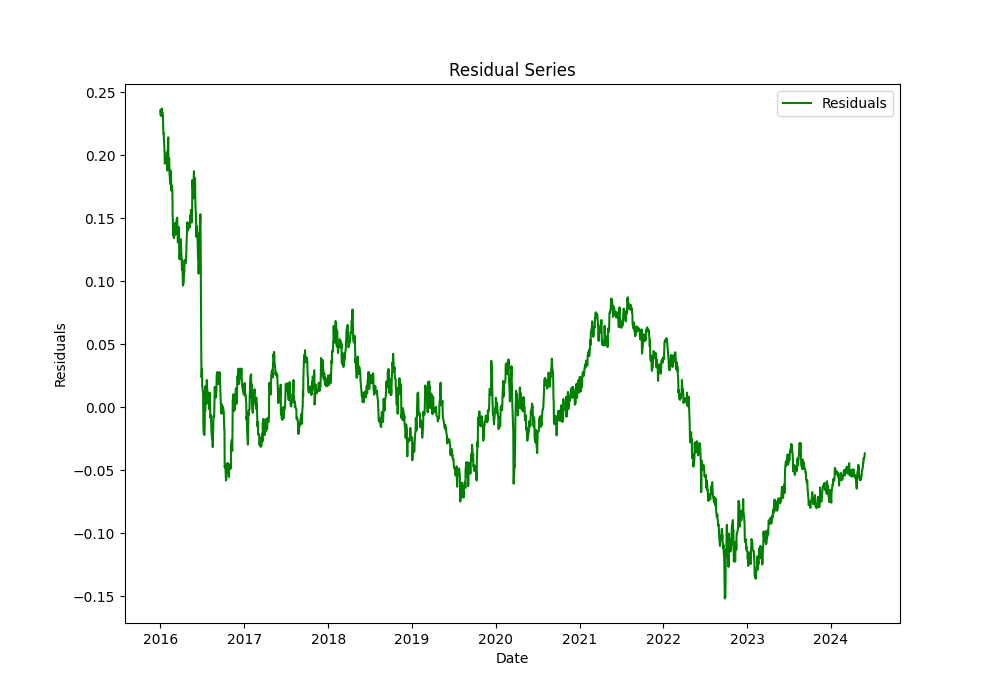
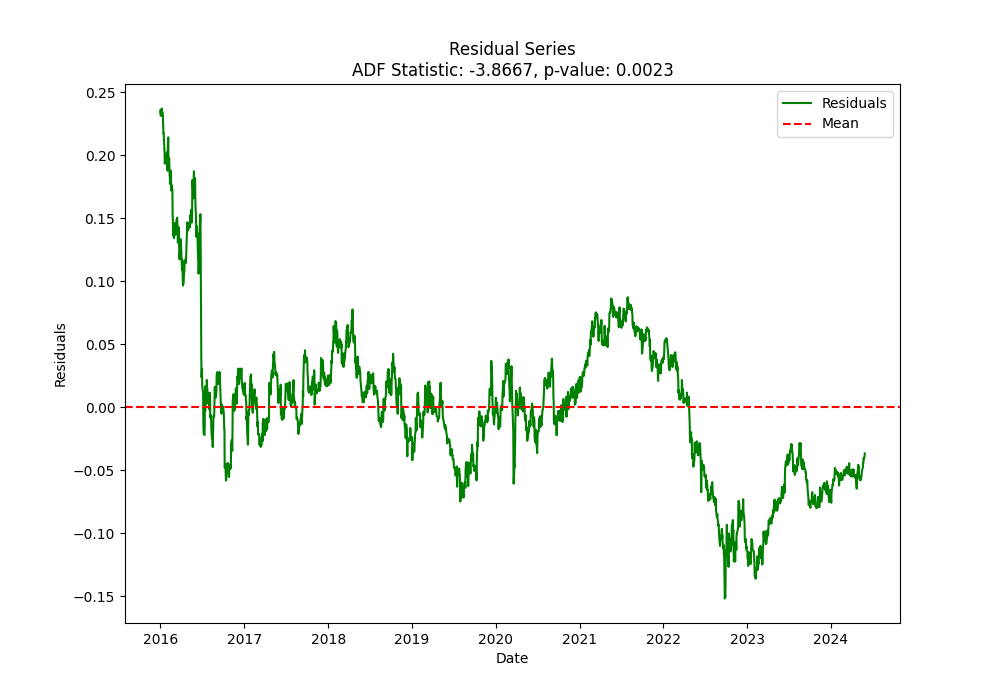
finished trading strat + pnl explanation

Changed region(s): [[0.341, 0.06, 0.682, 0.12], [0.775, 0.15, 0.868, 0.18]]

diff --git a/AUD NZD EDA/11_fx_trading_testing_period.py b/AUD NZD EDA/11_fx_trading_testing_period.py
@@ -1,0 +1,128 @@
+import yfinance as yf
+import pandas as pd
+import numpy as np
+import matplotlib.pyplot as plt
+import statsmodels.api as sm
+
+def generate_signal(Z_score, threshold_long, threshold_short):
+    signal = pd.Series(index=Z_score.index, dtype=int)
+    signal.iloc[0] = 0
+    
+    for t in range(1, len(Z_score)):
+        if signal.iloc[t-1] == 0:
+            if Z_score.iloc[t] <= threshold_long.iloc[t]:
+                signal.iloc[t] = 1
+            elif Z_score.iloc[t] >= threshold_short.iloc[t]:
+                signal.iloc[t] = -1
+            else:
+                signal.iloc[t] = 0
+        elif signal.iloc[t-1] == 1:
+            if Z_score.iloc[t] >= 0:
+                signal.iloc[t] = 0
+            else:
+                signal.iloc[t] = signal.iloc[t-1]
+        else:
+            if Z_score.iloc[t] <= 0:
+                signal.iloc[t] = 0
+            else:
+                signal.iloc[t] = signal.iloc[t-1]
+    
+    return signal
+
+def analyze_spread_LS(data, benchmark_data, pct_training=0.7, threshold=0.7):
+    T = len(data)
+    T_trn = round(pct_training * T)
+    
+    sgdusd = data['SGDUSD']
+    gbpusd = data['GBPUSD']
+    
+    spread = sgdusd - gbpusd
+    spread_mean = spread.iloc[:T_trn].mean()
+    spread_std = spread.iloc[:T_trn].std()
+    
+    Z_score = (spread.iloc[T_trn:] - spread_mean) / spread_std
+    Z_score_full = pd.Series(index=data.index, dtype=float)
+    Z_score_full.iloc[:T_trn] = np.nan
+    Z_score_full.iloc[T_trn:] = Z_score
+    
+    threshold_long = pd.Series(threshold, index=Z_score_full.index)
+    threshold_short = -threshold_long
+    
+    signal = generate_signal(Z_score_full, threshold_long, threshold_short)
+    
+    portf_return = spread.diff() * signal.shift(1)
+    
+    # Filter to testing period
+    portf_return_testing = portf_return.iloc[T_trn:]
+    benchmark_return_testing = benchmark_data.pct_change().iloc[T_trn:]
+    
+    # Align the data to handle missing values and ensure same lengths
+    portf_return_testing, benchmark_return_testing = portf_return_testing.align(benchmark_return_testing, join='inner')
+    
+    # Calculate Sharpe ratio
+    mean_return = portf_return_testing.mean()
+    std_return = portf_return_testing.std()
+    sharpe_ratio = mean_return / std_return * np.sqrt(252)  # Annualized Sharpe ratio assuming daily returns
+    
+    # Calculate Alpha and Beta
+    excess_return_testing = portf_return_testing - benchmark_return_testing
+    X = sm.add_constant(benchmark_return_testing)
+    model = sm.OLS(portf_return_testing, X, missing='drop').fit()
+    alpha = model.params[0]
+    beta = model.params[1]
+    
+    # Calculate Value at Risk (VaR)
+    var_95 = np.percentile(portf_return_testing.dropna(), 5)
+    
+    fig, axes = plt.subplots(1, 1, figsize=(12, 6))
+    
+    # Plot cumulative P&L for testing period
+    axes.plot((1 + portf_return_testing).cumprod(), label='Cumulative Return')
+    axes.axvline(x=portf_return_testing.index[0], color='blue', linestyle='--')  # Mark the start of the testing period
+    axes.set_title('Cumulative P&L (Multiples of Notional) - Testing Period')
+    axes.set_ylabel('Cumulative Return')
+    axes.legend()
+
+    # Set x-axis limits to start from the first data point of portf_return_testing
+    axes.set_xlim(portf_return_testing.index[0], portf_return_testing.index[-1])
+
+    # Display performance metrics
+    sharpe_text = f'Sharpe Ratio: {sharpe_ratio:.2f}'
+    alpha_text = f'Alpha: {alpha:.5f}'
+    beta_text = f'Beta: {beta:.2f}'
+    var_text = f'VaR (95%): {var_95:.2f}'
+    metrics_text = f'{sharpe_text}\n{alpha_text}\n{beta_text}\n{var_text}'
+
+    # Calculate the position for the text
+    max_return = (1 + portf_return_testing).cumprod().max()
+    text_x = portf_return_testing.index[-1] - pd.Timedelta(days=30)  # Adjusting x position for padding
+    text_y = (1 + portf_return_testing).cumprod().min()  # Adjusting y position for padding
+
+    # Display the performance metrics text
+    axes.text(text_x, text_y, metrics_text, fontsize=12, color='black', verticalalignment='bottom', horizontalalignment='right')
+
+    # Add a dotted line for y=0
+    axes.axhline(y=1, color='grey', linestyle='--', linewidth=1)
+
+    plt.tight_layout()
+    plt.savefig('X11_trade_performance_testing_period.png')
+    plt.show()
+
+
+# Fetching data from Yahoo Finance
+sgdusd_data = yf.download('SGDUSD=X', start='2016-01-01', end='2024-05-29')
+gbpusd_data = yf.download('GBPUSD=X', start='2016-01-01', end='2024-05-29')
+sp500_data = yf.download('^GSPC', start='2016-01-01', end='2024-05-29')  # Using S&P 500 as benchmark
+
+# Extract the adjusted close price
+sgdusd_close = sgdusd_data['Adj Close']
+gbpusd_close = gbpusd_data['Adj Close']
+sp500_close = sp500_data['Adj Close']
+
+# Combine into a DataFrame
+data = pd.concat([sgdusd_close, gbpusd_close], axis=1)
+data.columns = ['SGDUSD', 'GBPUSD']
+
+# Run the spread analysis
+analyze_spread_LS(data, sp500_close)
+

diff --git a/AUD NZD EDA/13_ADF_time_series.py b/AUD NZD EDA/13_ADF_time_series.py
@@ -1,0 +1,80 @@
+import yfinance as yf
+import pandas as pd
+import numpy as np
+from statsmodels.tsa.stattools import adfuller
+from sklearn.linear_model import LinearRegression
+import matplotlib.pyplot as plt
+
+# Fetching data from Yahoo Finance
+sgdusd_data = yf.download('SGDUSD=X', start='2016-01-01', end='2024-05-29')
+gbpusd_data = yf.download('GBPUSD=X', start='2016-01-01', end='2024-05-29')
+
+# Extract the adjusted close price
+sgdusd_close = sgdusd_data['Adj Close']
+gbpusd_close = gbpusd_data['Adj Close']
+
+# Define window sizes
+window_sizes = [12 * i for i in range(1, 8)]
+
+# Start ADF test after accumulating 12 months of data
+start_date = '2017-01-01'
+
+for window_size in window_sizes:
+    # Step 1: Fit a linear model
+    residuals = gbpusd_close - sgdusd_close
+
+    # Calculate rolling ADF statistic and p-value starting from the specified date
+    rolling_adf_stat = residuals.loc[start_date:].rolling(window=window_size).apply(lambda x: adfuller(x)[0])
+
+    # Drop NaN values from rolling statistics
+    rolling_adf_stat = rolling_adf_stat.dropna()
+
+    # Creating time variable for regression
+    time = np.arange(len(rolling_adf_stat)).reshape(-1, 1)
+
+    # Linear regression for ADF Statistic
+    reg_adf = LinearRegression().fit(time, rolling_adf_stat)
+    adf_trend = reg_adf.predict(time)
+
+    # Calculate gradient of ADF Statistic Trend Line
+    gradient = (adf_trend[-1] - adf_trend[0]) / len(adf_trend)
+
+    # Plotting
+    fig, ax1 = plt.subplots(figsize=(10, 7))
+    plt.subplots_adjust(top=0.9)  # Adjust top padding
+    plt.subplots_adjust(bottom=0.3)  # Adjust bottom padding
+
+    color = 'tab:blue'
+    ax1.set_xlabel('Date')
+    ax1.set_ylabel('ADF Statistic', color=color)
+    ax1.plot(rolling_adf_stat.index, rolling_adf_stat, label=f'Rolling ADF Statistic ({window_size} Months)', color=color)
+    ax1.plot(rolling_adf_stat.index, adf_trend, linestyle='--', color='green', linewidth=2, label='ADF Stat Trend')
+    ax1.tick_params(axis='y', labelcolor=color)
+
+    # Adding annotations for ADF Statistic Trend Line Gradient
+    start_adf = adf_trend[0]
+    end_adf = adf_trend[-1]
+
+    # Calculate middle x-coordinate of the plot's x-axis range
+    middle_x = ax1.get_xlim()[0] + 0.5 * (ax1.get_xlim()[1] - ax1.get_xlim()[0])
+
+    # Calculate fixed y-coordinate for text annotations
+    y_coord = min(rolling_adf_stat.min(), start_adf) - 6
+
+    # Get the bottom of the plot area
+    bottom = ax1.get_ylim()[0]
+
+    # Calculate the new y-coordinate for text annotations
+    y_coord = bottom - 0.05 * (ax1.get_ylim()[1] - ax1.get_ylim()[0])  # Adjust 0.05 based on your preference
+
+    # Text annotations with adjusted y-coordinate
+    ax1.text(middle_x, ax1.get_ylim()[0] * 1.4, f'Trend Line Starting ADF: {start_adf:.2f}', verticalalignment='top', horizontalalignment='center')
+    ax1.text(middle_x, ax1.get_ylim()[0] * 1.5, f'Trend Line Final ADF: {end_adf:.2f}', verticalalignment='top', horizontalalignment='center')
+    ax1.text(middle_x, ax1.get_ylim()[0] * 1.6, f'ADF Statistic Trend Line Gradient: {gradient:.6f}', verticalalignment='top', horizontalalignment='center', color='purple')
+
+    plt.title(f'Rolling ADF Statistic with Trend Lines (Window Size: {window_size} Months)')
+    plt.savefig(f'X13_Rolling_ADF_{window_size}_Months.png')
+    # plt.show()
+
+
+

diff --git a/AUD NZD EDA/12_residuals_ADF_trainvtest.py b/AUD NZD EDA/12_residuals_ADF_trainvtest.py
@@ -1,0 +1,59 @@
+import yfinance as yf
+import pandas as pd
+import numpy as np
+from statsmodels.tsa.stattools import adfuller
+from statsmodels.regression.linear_model import OLS
+import statsmodels.api as sm
+import matplotlib.pyplot as plt
+
+# Fetching data from Yahoo Finance
+sgdusd_data = yf.download('SGDUSD=X', start='2016-01-01', end='2024-05-29')
+gbpusd_data = yf.download('GBPUSD=X', start='2016-01-01', end='2024-05-29')
+
+# Extract the adjusted close price
+sgdusd_close = sgdusd_data['Adj Close']
+gbpusd_close = gbpusd_data['Adj Close']
+
+# Step 1: Fit a linear model
+X = sm.add_constant(sgdusd_close)
+model = OLS(gbpusd_close, X).fit()
+residuals = model.resid
+
+# Split residuals into train and test periods
+train_residuals = residuals[:int(len(residuals) * 0.7)]
+test_residuals = residuals[int(len(residuals) * 0.7):]
+
+# Define function to perform ADF test and display results
+def run_adf_test(residuals):
+    result = adfuller(residuals)
+    print("ADF Statistic:", result[0])
+    print("p-value:", result[1])
+
+# Perform ADF test on train residuals
+print("ADF test results for train period:")
+run_adf_test(train_residuals)
+
+# Perform ADF test on test residuals
+print("\nADF test results for test period:")
+run_adf_test(test_residuals)
+
+# Plot and save residual series
+plt.figure(figsize=(10, 7))
+plt.plot(residuals, label='Residuals', color='green')
+plt.axhline(y=np.mean(residuals), color='red', linestyle='--', label='Mean')
+plt.title('Residual Series')
+plt.xlabel('Date')
+plt.ylabel('Residuals')
+plt.axvline(x=residuals.index[int(len(residuals) * 0.7)], color='blue', linestyle='--', label='Start of Testing Period')
+
+# Perform ADF test on train residuals
+train_adf_result = adfuller(train_residuals)
+plt.text(residuals.index[int(len(residuals) * 0.3)], np.mean(residuals) + 2 * np.std(residuals), f"ADF Stat (Train): {train_adf_result[0]:.2f}\np-value (Train): {train_adf_result[1]:.4f}", fontsize=10, color='black', ha='center')
+
+# Perform ADF test on test residuals
+test_adf_result = adfuller(test_residuals)
+plt.text(residuals.index[int(len(residuals) * 0.85)], np.mean(residuals) + 2 * np.std(residuals), f"ADF Stat (Test): {test_adf_result[0]:.2f}\np-value (Test): {test_adf_result[1]:.4f}", fontsize=10, color='black', ha='center')
+
+plt.legend()
+plt.savefig('X12_residuals_ADF_trainvtest_with_values.png')
+plt.show()

diff --git a/AUD NZD EDA/9_fx_trading_eda.py b/AUD NZD EDA/9_fx_trading_eda.py
@@ -1,5 +1,3 @@
-#### https://palomar.home.ece.ust.hk/MAFS5310_lectures/Rsession_pairs_trading_with_R.html#Trading_the_spread
-
 import yfinance as yf
 import pandas as pd
 import numpy as np
@@ -71,7 +69,8 @@ plt.close()
 # Plot and save residual series
 plt.figure(figsize=(10, 7))
 plt.plot(residuals, label='Residuals', color='green')
-plt.title('Residual Series')
+plt.axhline(y=np.mean(residuals), color='red', linestyle='--', label='Mean')
+plt.title(f'Residual Series\nADF Statistic: {adf_result[0]:.4f}, p-value: {adf_result[1]:.4f}')
 plt.xlabel('Date')
 plt.ylabel('Residuals')
 plt.legend()
@@ -101,4 +100,3 @@ print(f'Standard Deviation of diff(GBPUSD): {sd_diff_gbpusd}')
 print(f'Standard Deviation of residuals: {sd_residuals}')
 print(f'Standard Deviation of innovations: {sd_innovations}')
 print(f'Half-life: {half_life}')
-
